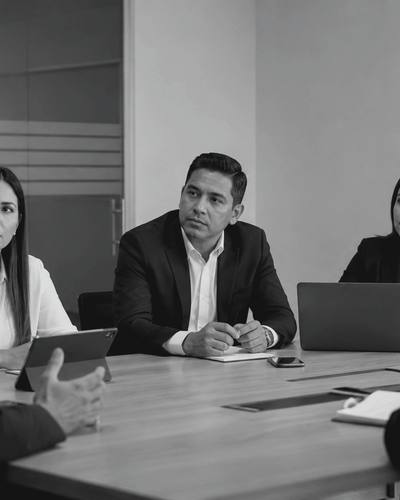
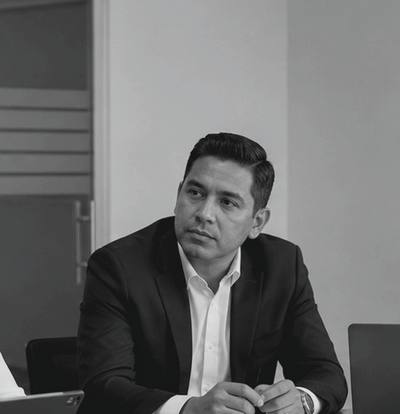
Rehacer los recortes de las fotografías
Los recortes anteriores partían figuras. Corregido midiendo antes de
recortar, no a ojo:

- Banda de cierre: el recorte cortaba las cabezas de las tres personas.
  El perfil de brillo por filas sitúa las cabezas en y≈440 y los documentos
  en y≈840-940 del original; el recorte nuevo entra con aire arriba y llega
  hasta los documentos. La banda conserva su proporción (16:5) en vez de
  recortarse con object-fit, así no corta a nadie en ningún ancho.
- Casación: el original trae dos figuras partidas por los bordes y quedaban
  dentro del encuadre. Ahora cierra sobre la persona del centro.
- Fuero: llevaba una foto apaisada estirada dentro de una columna vertical,
  con un zoom desmedido del documento. Ahora usa una toma vertical.
- La firma: recorte apaisado desde el archivo, en vez de comprimir una
  vertical con object-fit.
- Portada: pasa a usar la misma fotografía que la portada del brochure.

diff --git a/sitio/index.html b/sitio/index.html
@@ -112,13 +112,13 @@
         <figure class="firma__figura">
           <picture>
             <source type="image/webp"
-                    srcset="img/firma-480.webp 480w, img/firma-760.webp 760w"
+                    srcset="img/firma-480.webp 480w, img/firma-610.webp 610w"
                     sizes="(min-width: 62rem) 30rem, calc(100vw - 2.5rem)">
-            <img src="img/firma-760.jpg"
-                 srcset="img/firma-480.jpg 480w, img/firma-760.jpg 760w"
+            <img src="img/firma-610.jpg"
+                 srcset="img/firma-480.jpg 480w, img/firma-610.jpg 610w"
                  sizes="(min-width: 62rem) 30rem, calc(100vw - 2.5rem)"
-                 width="760" height="950" loading="lazy" decoding="async"
-                 alt="Dos abogados revisan documentos en una mesa de reuniones.">
+                 width="610" height="508" loading="lazy" decoding="async"
+                 alt="Manos revisando un documento sobre un escritorio.">
           </picture>
         </figure>
       </div>
@@ -200,13 +200,13 @@
         <figure class="instrumentos__figura">
           <picture>
             <source type="image/webp"
-                    srcset="img/instrumentos-400.webp 400w, img/instrumentos-610.webp 610w"
+                    srcset="img/instrumentos-400.webp 400w, img/instrumentos-664.webp 664w"
                     sizes="(min-width: 62rem) 20rem, calc(100vw - 2.5rem)">
-            <img src="img/instrumentos-610.jpg"
-                 srcset="img/instrumentos-400.jpg 400w, img/instrumentos-610.jpg 610w"
+            <img src="img/instrumentos-664.jpg"
+                 srcset="img/instrumentos-400.jpg 400w, img/instrumentos-664.jpg 664w"
                  sizes="(min-width: 62rem) 20rem, calc(100vw - 2.5rem)"
-                 width="610" height="762" loading="lazy" decoding="async"
-                 alt="Manos pasando la hoja de un documento encuadernado.">
+                 width="664" height="664" loading="lazy" decoding="async"
+                 alt="Documentos y expedientes sobre una mesa de trabajo.">
           </picture>
         </figure>
       </div>
@@ -255,12 +255,12 @@
       <figure class="fuero__figura">
         <picture>
           <source type="image/webp"
-                  srcset="img/fuero-480.webp 480w, img/fuero-764.webp 764w"
+                  srcset="img/fuero-480.webp 480w, img/fuero-574.webp 574w"
                   sizes="(min-width: 62rem) 22rem, calc(100vw - 2.5rem)">
-          <img src="img/fuero-764.jpg"
-               srcset="img/fuero-480.jpg 480w, img/fuero-764.jpg 764w"
+          <img src="img/fuero-574.jpg"
+               srcset="img/fuero-480.jpg 480w, img/fuero-574.jpg 574w"
                sizes="(min-width: 62rem) 22rem, calc(100vw - 2.5rem)"
-               width="764" height="573" loading="lazy" decoding="async"
+               width="574" height="990" loading="lazy" decoding="async"
                alt="Revisión de documentos laborales sobre un escritorio.">
         </picture>
       </figure>
@@ -300,12 +300,12 @@
         <figure class="casacion__figura">
           <picture>
             <source type="image/webp"
-                    srcset="img/casacion-400.webp 400w, img/casacion-768.webp 768w"
+                    srcset="img/casacion-400.webp 400w, img/casacion-522.webp 522w"
                     sizes="(min-width: 52rem) 20rem, calc(100vw - 2.5rem)">
-            <img src="img/casacion-768.jpg"
-                 srcset="img/casacion-400.jpg 400w, img/casacion-768.jpg 768w"
+            <img src="img/casacion-522.jpg"
+                 srcset="img/casacion-400.jpg 400w, img/casacion-522.jpg 522w"
                  sizes="(min-width: 52rem) 20rem, calc(100vw - 2.5rem)"
-                 width="768" height="960" loading="lazy" decoding="async"
+                 width="522" height="540" loading="lazy" decoding="async"
                  alt="Reunión de trabajo alrededor de una mesa.">
           </picture>
         </figure>
@@ -398,12 +398,12 @@
   <figure class="banda">
     <picture>
       <source type="image/webp"
-              srcset="img/cierre-800.webp 800w, img/cierre-1400.webp 1400w"
+              srcset="img/cierre-800.webp 800w, img/cierre-1600.webp 1600w"
               sizes="100vw">
-      <img src="img/cierre-1400.jpg"
-           srcset="img/cierre-800.jpg 800w, img/cierre-1400.jpg 1400w"
+      <img src="img/cierre-1600.jpg"
+           srcset="img/cierre-800.jpg 800w, img/cierre-1600.jpg 1600w"
            sizes="100vw"
-           width="1400" height="466" loading="lazy" decoding="async" alt="">
+           width="1600" height="500" loading="lazy" decoding="async" alt="">
     </picture>
   </figure>
 

diff --git a/sitio/styles.css b/sitio/styles.css
@@ -471,11 +471,11 @@ a:hover { text-decoration-color: var(--acento); }
     align-self: stretch;
     min-height: 26rem;
     background-color: #14171b;
-    background-image: url("img/hero-610.jpg");
-    background-image: image-set(url("img/hero-610.webp") type("image/webp"),
-                                url("img/hero-610.jpg")  type("image/jpeg"));
+    background-image: url("img/hero-620.jpg");
+    background-image: image-set(url("img/hero-620.webp") type("image/webp"),
+                                url("img/hero-620.jpg")  type("image/jpeg"));
     background-size: cover;
-    background-position: 50% 42%;
+    background-position: 50% 50%;
   }
 }
 
@@ -634,9 +634,8 @@ a:hover { text-decoration-color: var(--acento); }
 
 .banda img {
   width: 100%;
-  height: clamp(8rem, 20vw, 15rem);
-  object-fit: cover;
-  object-position: 50% 42%;
+  height: auto;
+  aspect-ratio: 16 / 5;   /* la del archivo: no recorta a nadie en ningún ancho */
 }
 
 
@@ -783,14 +782,7 @@ a:hover { text-decoration-color: var(--acento); }
 }
 
 @media (min-width: 62rem) {
-  /* En escritorio la foto se recorta en altura para cerrar a la par de los
-     cuatro verbos de la columna derecha; en vertical dejaba un hueco. */
   .firma__figura { margin-top: clamp(2.5rem, 5vw, 3.5rem); }
-  .firma__figura img {
-    height: clamp(15rem, 24vw, 20rem);
-    object-fit: cover;
-    object-position: 50% 32%;
-  }
 }
 
 
@@ -1095,7 +1087,7 @@ body.con-barra .pie {
   .instrumentos__figura,
   .casacion__figura { max-width: 11rem; }
 
-  .banda img { height: 5rem; }
+  .banda img { max-width: 22rem; }
 
   .filete { animation: none; }
 }
